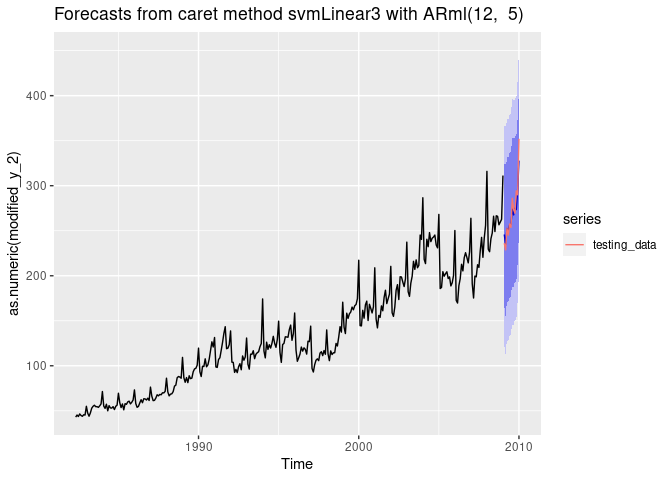
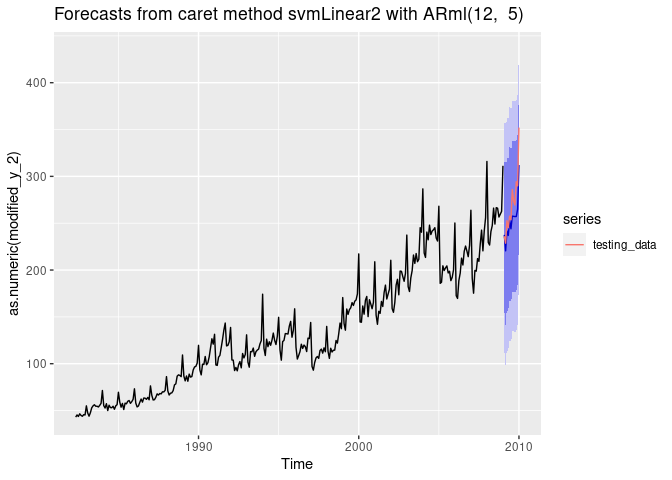
Readme

diff --git a/README.md b/README.md
@@ -125,110 +125,18 @@ training_data <- dtlist$train
 
 testing_data <- dtlist$test
 
-fit <- ARml(training_data, max_lag = 12, caret_method = "svmLinear3", 
+fit <- ARml(training_data, max_lag = 12, caret_method = "svmLinear2", 
             verbose = FALSE)
-#> Warning in LiblineaR::LiblineaR(data = as.matrix(x), target = y, cost =
-#> param$cost, : No value provided for svr_eps. Using default of 0.1
-
-#> Warning in LiblineaR::LiblineaR(data = as.matrix(x), target = y, cost =
-#> param$cost, : No value provided for svr_eps. Using default of 0.1
-
-#> Warning in LiblineaR::LiblineaR(data = as.matrix(x), target = y, cost =
-#> param$cost, : No value provided for svr_eps. Using default of 0.1
-
-#> Warning in LiblineaR::LiblineaR(data = as.matrix(x), target = y, cost =
-#> param$cost, : No value provided for svr_eps. Using default of 0.1
-
-#> Warning in LiblineaR::LiblineaR(data = as.matrix(x), target = y, cost =
-#> param$cost, : No value provided for svr_eps. Using default of 0.1
-
-#> Warning in LiblineaR::LiblineaR(data = as.matrix(x), target = y, cost =
-#> param$cost, : No value provided for svr_eps. Using default of 0.1
-
-#> Warning in LiblineaR::LiblineaR(data = as.matrix(x), target = y, cost =
-#> param$cost, : No value provided for svr_eps. Using default of 0.1
-
-#> Warning in LiblineaR::LiblineaR(data = as.matrix(x), target = y, cost =
-#> param$cost, : No value provided for svr_eps. Using default of 0.1
-
-#> Warning in LiblineaR::LiblineaR(data = as.matrix(x), target = y, cost =
-#> param$cost, : No value provided for svr_eps. Using default of 0.1
-
-#> Warning in LiblineaR::LiblineaR(data = as.matrix(x), target = y, cost =
-#> param$cost, : No value provided for svr_eps. Using default of 0.1
-
-#> Warning in LiblineaR::LiblineaR(data = as.matrix(x), target = y, cost =
-#> param$cost, : No value provided for svr_eps. Using default of 0.1
-
-#> Warning in LiblineaR::LiblineaR(data = as.matrix(x), target = y, cost =
-#> param$cost, : No value provided for svr_eps. Using default of 0.1
-
-#> Warning in LiblineaR::LiblineaR(data = as.matrix(x), target = y, cost =
-#> param$cost, : No value provided for svr_eps. Using default of 0.1
-
-#> Warning in LiblineaR::LiblineaR(data = as.matrix(x), target = y, cost =
-#> param$cost, : No value provided for svr_eps. Using default of 0.1
-
-#> Warning in LiblineaR::LiblineaR(data = as.matrix(x), target = y, cost =
-#> param$cost, : No value provided for svr_eps. Using default of 0.1
-
-#> Warning in LiblineaR::LiblineaR(data = as.matrix(x), target = y, cost =
-#> param$cost, : No value provided for svr_eps. Using default of 0.1
-
-#> Warning in LiblineaR::LiblineaR(data = as.matrix(x), target = y, cost =
-#> param$cost, : No value provided for svr_eps. Using default of 0.1
-
-#> Warning in LiblineaR::LiblineaR(data = as.matrix(x), target = y, cost =
-#> param$cost, : No value provided for svr_eps. Using default of 0.1
-
-#> Warning in LiblineaR::LiblineaR(data = as.matrix(x), target = y, cost =
-#> param$cost, : No value provided for svr_eps. Using default of 0.1
-
-#> Warning in LiblineaR::LiblineaR(data = as.matrix(x), target = y, cost =
-#> param$cost, : No value provided for svr_eps. Using default of 0.1
-
-#> Warning in LiblineaR::LiblineaR(data = as.matrix(x), target = y, cost =
-#> param$cost, : No value provided for svr_eps. Using default of 0.1
-
-#> Warning in LiblineaR::LiblineaR(data = as.matrix(x), target = y, cost =
-#> param$cost, : No value provided for svr_eps. Using default of 0.1
-
-#> Warning in LiblineaR::LiblineaR(data = as.matrix(x), target = y, cost =
-#> param$cost, : No value provided for svr_eps. Using default of 0.1
-
-#> Warning in LiblineaR::LiblineaR(data = as.matrix(x), target = y, cost =
-#> param$cost, : No value provided for svr_eps. Using default of 0.1
-
-#> Warning in LiblineaR::LiblineaR(data = as.matrix(x), target = y, cost =
-#> param$cost, : No value provided for svr_eps. Using default of 0.1
-
-#> Warning in LiblineaR::LiblineaR(data = as.matrix(x), target = y, cost =
-#> param$cost, : No value provided for svr_eps. Using default of 0.1
-
-#> Warning in LiblineaR::LiblineaR(data = as.matrix(x), target = y, cost =
-#> param$cost, : No value provided for svr_eps. Using default of 0.1
-
-#> Warning in LiblineaR::LiblineaR(data = as.matrix(x), target = y, cost =
-#> param$cost, : No value provided for svr_eps. Using default of 0.1
-
-#> Warning in LiblineaR::LiblineaR(data = as.matrix(x), target = y, cost =
-#> param$cost, : No value provided for svr_eps. Using default of 0.1
-
-#> Warning in LiblineaR::LiblineaR(data = as.matrix(x), target = y, cost =
-#> param$cost, : No value provided for svr_eps. Using default of 0.1
-
-#> Warning in LiblineaR::LiblineaR(data = as.matrix(x), target = y, cost =
-#> param$cost, : No value provided for svr_eps. Using default of 0.1
 
 forecast(fit, h = length(testing_data), level = c(95,80))-> fc
 
 accuracy(fc, testing_data)
-#>                    ME     RMSE      MAE       MPE     MAPE      MASE       ACF1
-#> Training set 1.145920 11.71421 8.462603 0.6001636 6.051356 0.5466249  0.6159196
-#> Test set     2.444332 10.91173 8.269755 0.5648584 2.905481 0.5341683 -0.2357609
-#>              Theil's U
-#> Training set        NA
-#> Test set     0.4462313
+#>                      ME      RMSE       MAE        MPE     MAPE      MASE
+#> Training set  0.3016388  6.933042  4.969558 -0.1057475 3.724202 0.3209987
+#> Test set     16.6048808 20.812588 16.846600  5.7734741 5.875854 1.0881725
+#>                    ACF1 Theil's U
+#> Training set 0.06480896        NA
+#> Test set     0.33020419  0.884742
 
 fc_plot(fc) + 
   autolayer(testing_data, series = "testing_data")
